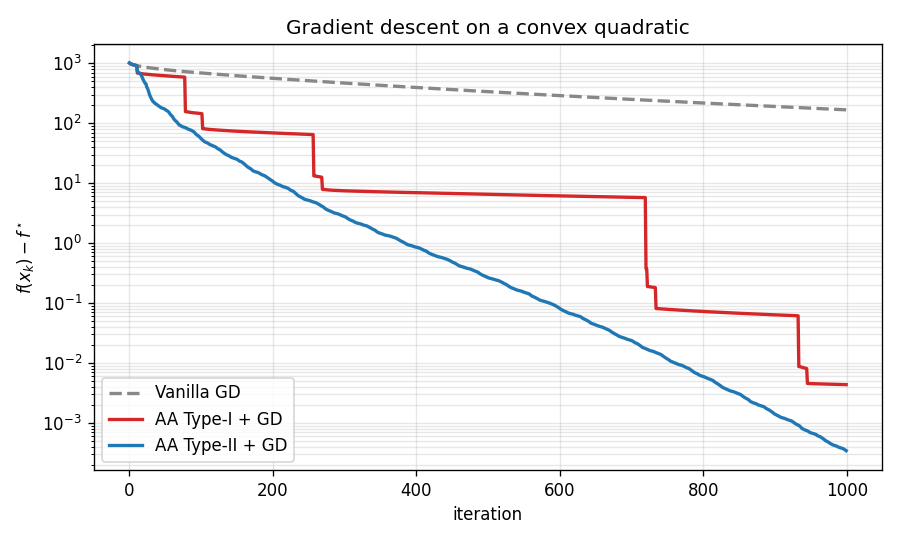
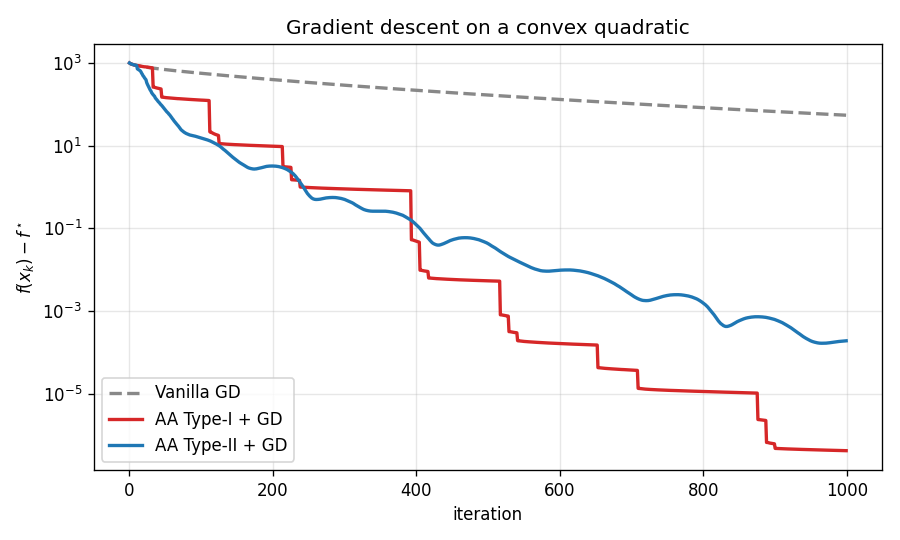
docs(readme): use optimal GD step (2/(lmin+lmax))
Previously step = 1/lmax, which is half the max stable step. Optimal GD
step for a strongly convex quadratic is 2/(lmin+lmax). Using it in both
the quickstart and the plot makes the vanilla GD baseline competitive,
so the AA advantage in the plot reflects genuine acceleration over a
well-tuned GD — not over an arbitrarily hobbled one.

diff --git a/python/plot_convergence.py b/python/plot_convergence.py
@@ -50,7 +50,8 @@ def main():
     Qh = rng.standard_normal((dim, dim)) / np.sqrt(dim)
     Q = Qh.T @ Qh + 1e-3 * np.eye(dim)
     q = rng.standard_normal(dim)
-    step = 1.0 / np.linalg.eigvalsh(Q).max()
+    eigs = np.linalg.eigvalsh(Q)
+    step = 2.0 / (eigs.min() + eigs.max())  # optimal GD step for a quadratic
     x0 = rng.standard_normal(dim)
 
     curves = {

diff --git a/README.md b/README.md
@@ -78,7 +78,8 @@ rng = np.random.default_rng(0)
 Qh = rng.standard_normal((dim, dim)) / np.sqrt(dim)
 Q  = Qh.T @ Qh + 1e-3 * np.eye(dim)
 q  = rng.standard_normal(dim)
-step = 1.0 / np.linalg.eigvalsh(Q).max()
+eigs = np.linalg.eigvalsh(Q)
+step = 2.0 / (eigs.min() + eigs.max())  # optimal GD step for a quadratic
 
 acc = aa.AndersonAccelerator(dim, mem, type1=True, regularization=1e-8)
 
